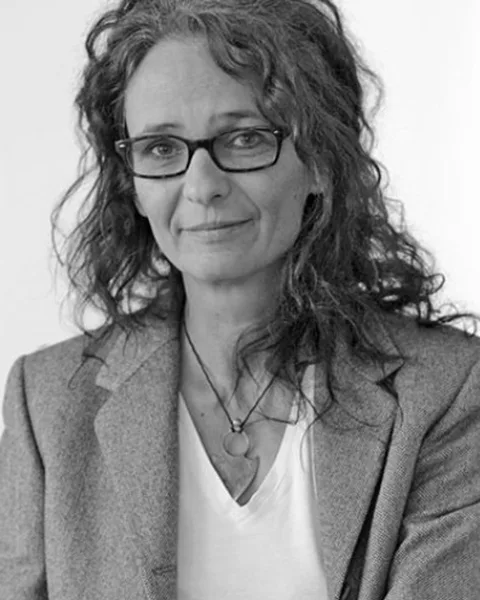
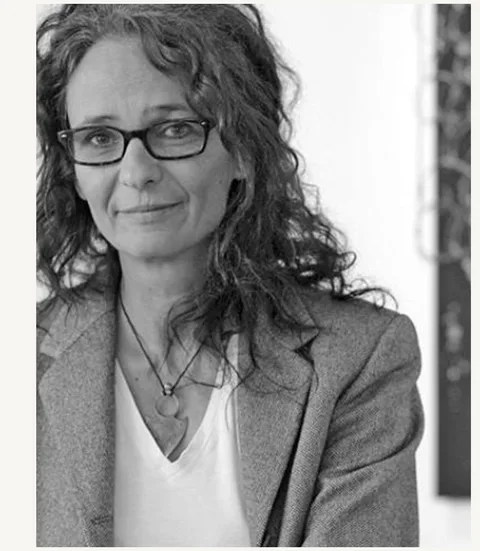
Mein Ansatz: Porträt zentriert, Martina vollständig sichtbar
- Bild aus Original neu zugeschnitten und horizontal zentriert
- object-fit: contain damit nichts abgeschnitten wird

diff --git a/atelier.html b/atelier.html
@@ -30,7 +30,7 @@
   <meta name="twitter:description" content="Ausprobieren im Mini-Atelier: Malen, Zeichnen und Kollage – optional anonym an das Atelier senden."/>
   <meta name="twitter:image" content="https://kunsttherapie.mkmpb.de/assets/img/Gruppen-und-Einzeltherapie-768x524.jpg"/>
   <meta name="twitter:image:alt" content="Kunsttherapie in Paderborn – Gruppen- und Einzeltherapie"/>
-  <link rel="stylesheet" href="assets/css/style.78fff1ef.css"/>
+  <link rel="stylesheet" href="assets/css/style.24ed8c80.css"/>
   <script type="application/ld+json">
 {
   "@context": "https://schema.org",

diff --git a/index.html b/index.html
@@ -31,7 +31,7 @@
   <meta name="twitter:card" content="summary_large_image"/>
   <meta name="twitter:title" content="Kunsttherapie Paderborn | Psychosoziale Kunsttherapie &amp; Atelier"/>
   <meta name="twitter:description" content="Kunsttherapie in Paderborn: Di 11:00–12:30 und Do 18:00–19:30. Gruppen, Auszeit, Einzel, Teambuilding – Termin online buchen."/>
-  <link rel="stylesheet" href="assets/css/style.78fff1ef.css"/>
+  <link rel="stylesheet" href="assets/css/style.24ed8c80.css"/>
   <script type="application/ld+json">
 {
   "@context": "https://schema.org",

diff --git a/ueber-mich.html b/ueber-mich.html
@@ -31,7 +31,7 @@
   <meta name="twitter:card" content="summary_large_image"/>
   <meta name="twitter:title" content="Über mich – Kunsttherapeutin Paderborn"/>
   <meta name="twitter:description" content="Ich bin psychosoziale und klinische Kunsttherapeutin mit über 16 Jahren Erfahrung – Palliativ, Psychoonkologie, mein eigenes Atelier in Paderborn."/>
-  <link rel="stylesheet" href="assets/css/style.78fff1ef.css"/>
+  <link rel="stylesheet" href="assets/css/style.24ed8c80.css"/>
   <script type="application/ld+json">
 {
   "@context": "https://schema.org",

diff --git a/kunsttherapie.html b/kunsttherapie.html
@@ -31,7 +31,7 @@
   <meta name="twitter:card" content="summary_large_image"/>
   <meta name="twitter:title" content="Kunsttherapie & Angebote – Paderborn"/>
   <meta name="twitter:description" content="Gruppen Dienstag morgens, Auszeit Donnerstag abends, Teambuilding und Einzelsitzungen. Atelier Otto-Stadler-Straße 23c, Paderborn."/>
-  <link rel="stylesheet" href="assets/css/style.78fff1ef.css"/>
+  <link rel="stylesheet" href="assets/css/style.24ed8c80.css"/>
   <script type="application/ld+json">
 {
   "@context": "https://schema.org",

diff --git a/buchung.html b/buchung.html
@@ -31,7 +31,7 @@
   <meta name="twitter:card" content="summary_large_image"/>
   <meta name="twitter:title" content="Termin buchen – Kunsttherapie Paderborn"/>
   <meta name="twitter:description" content="Online-Termin anfragen: Dienstag morgens und Donnerstag abends. Freie Zeiten im Kalender – Bestätigung per E-Mail."/>
-  <link rel="stylesheet" href="assets/css/style.78fff1ef.css"/>
+  <link rel="stylesheet" href="assets/css/style.24ed8c80.css"/>
   <script type="application/ld+json">
 {
   "@context": "https://schema.org",

diff --git a/preise.html b/preise.html
@@ -31,7 +31,7 @@
   <meta name="twitter:card" content="summary_large_image"/>
   <meta name="twitter:title" content="Preise – Kunsttherapie Paderborn"/>
   <meta name="twitter:description" content="Transparente Preise für Gruppensitzungen ab 55 €, Programme und Einzelsitzungen auf Anfrage."/>
-  <link rel="stylesheet" href="assets/css/style.78fff1ef.css"/>
+  <link rel="stylesheet" href="assets/css/style.24ed8c80.css"/>
   <script type="application/ld+json">
 {
   "@context": "https://schema.org",

diff --git a/kontakt.html b/kontakt.html
@@ -31,7 +31,7 @@
   <meta name="twitter:card" content="summary_large_image"/>
   <meta name="twitter:title" content="Kontakt – Kunsttherapie Paderborn"/>
   <meta name="twitter:description" content="Nachricht senden, anrufen oder Anfahrt zum Atelier Otto-Stadler-Straße 23c, Paderborn."/>
-  <link rel="stylesheet" href="assets/css/style.78fff1ef.css"/>
+  <link rel="stylesheet" href="assets/css/style.24ed8c80.css"/>
   <script type="application/ld+json">
 {
   "@context": "https://schema.org",

diff --git a/events.html b/events.html
@@ -31,7 +31,7 @@
   <meta name="twitter:card" content="summary_large_image"/>
   <meta name="twitter:title" content="Veranstaltungen – Kunsttherapie Paderborn"/>
   <meta name="twitter:description" content="Workshops, Teambuilding und Veranstaltungen in Paderborn."/>
-  <link rel="stylesheet" href="assets/css/style.78fff1ef.css"/>
+  <link rel="stylesheet" href="assets/css/style.24ed8c80.css"/>
   <script type="application/ld+json">
 {
   "@context": "https://schema.org",

diff --git a/neuigkeiten.html b/neuigkeiten.html
@@ -31,7 +31,7 @@
   <meta name="twitter:card" content="summary_large_image"/>
   <meta name="twitter:title" content="Neuigkeiten – Kunsttherapie Paderborn"/>
   <meta name="twitter:description" content="Aktuelles aus dem Atelier: Termine, Raum und Ankündigungen."/>
-  <link rel="stylesheet" href="assets/css/style.78fff1ef.css"/>
+  <link rel="stylesheet" href="assets/css/style.24ed8c80.css"/>
   <script type="application/ld+json">
 {
   "@context": "https://schema.org",

diff --git a/datenschutz.html b/datenschutz.html
@@ -31,7 +31,7 @@
   <meta name="twitter:card" content="summary_large_image"/>
   <meta name="twitter:title" content="Datenschutz – Kunsttherapie Paderborn"/>
   <meta name="twitter:description" content="Datenschutzerklärung der Website Kunsttherapie Paderborn."/>
-  <link rel="stylesheet" href="assets/css/style.78fff1ef.css"/>
+  <link rel="stylesheet" href="assets/css/style.24ed8c80.css"/>
   <script type="application/ld+json">
 {
   "@context": "https://schema.org",

diff --git a/impressum.html b/impressum.html
@@ -31,7 +31,7 @@
   <meta name="twitter:card" content="summary_large_image"/>
   <meta name="twitter:title" content="Impressum – Kunsttherapie Paderborn"/>
   <meta name="twitter:description" content="Impressum der Website Kunsttherapie Paderborn."/>
-  <link rel="stylesheet" href="assets/css/style.78fff1ef.css"/>
+  <link rel="stylesheet" href="assets/css/style.24ed8c80.css"/>
   <script type="application/ld+json">
 {
   "@context": "https://schema.org",

diff --git a/assets/css/style.24ed8c80.css b/assets/css/style.24ed8c80.css
@@ -499,8 +499,8 @@ h3 {
   width: 100%;
   height: 100%;
   min-height: 100%;
-  object-fit: cover;
-  object-position: center 22%;
+  object-fit: contain;
+  object-position: center center;
   border-radius: var(--radius-card);
   display: block;
   filter: contrast(1.04) saturate(1.02);
